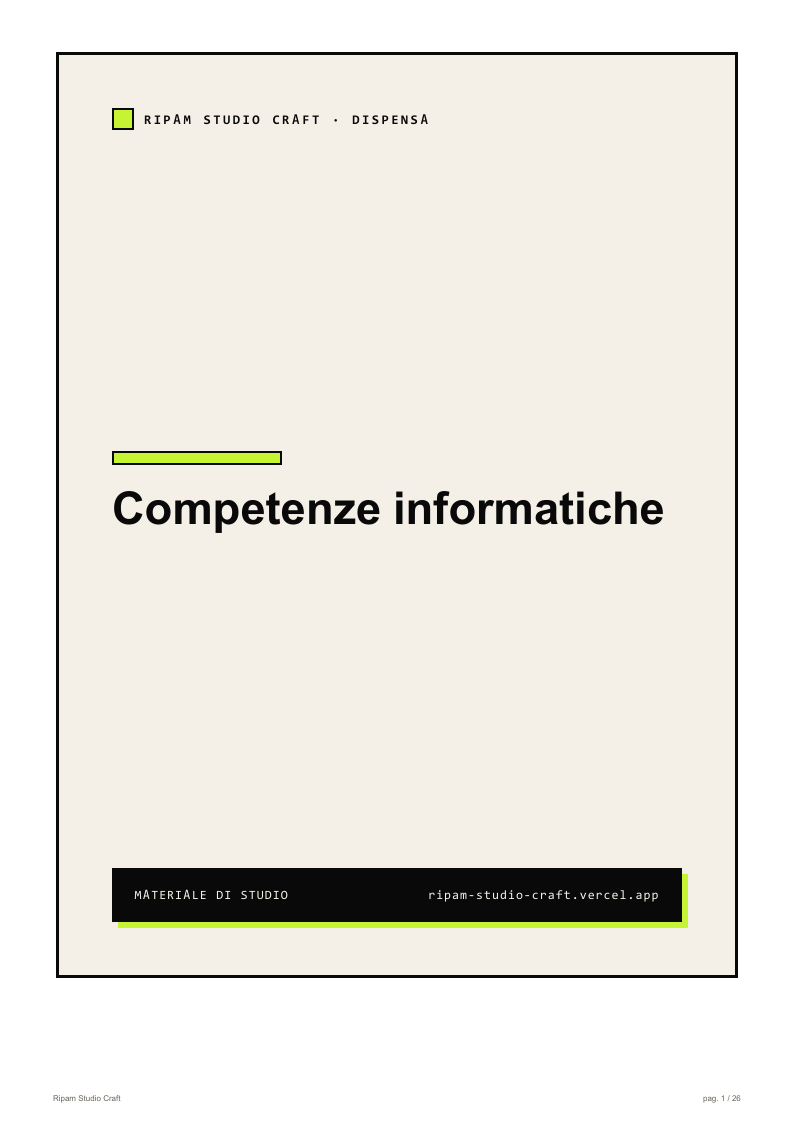
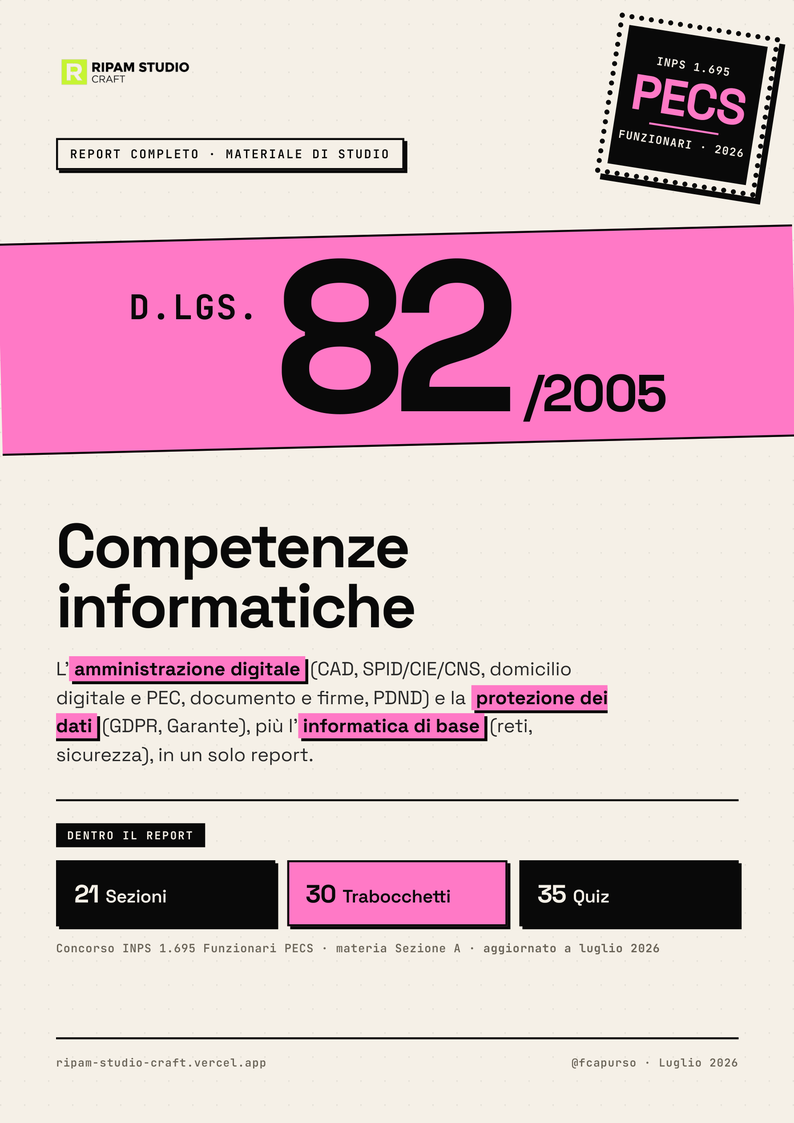
feat(report-custom): cover vere INPS + vetrina RIPAM 1340 AMM e COM
- INPS 1.695 PECS: cover reali (pagina 1 dei report) al posto dei placeholder,
  + 2 report nuovi (Cultura generale preselettiva, Sezione B - SJT) con anteprime
  Drive collegate; manifest bundle-lead INPS da 5 a 7 report.
- Vetrina /report-custom estesa a RIPAM 1.340 Funzionari: profilo AMM (10 report)
  e profilo COM (8 report), con cover vere e fileId anteprima dal manifest.

diff --git a/src/views/ReportCustom.vue b/src/views/ReportCustom.vue
@@ -85,13 +85,51 @@ const CONCORSI = [
     cod: 'INPS',
     nome: 'INPS 1.695 Funzionari PECS',
     tag: 'Progettazione, Erogazione e Controllo dei Servizi',
-    intro: 'Le 5 materie della Sezione A della prova scritta, ognuna in un report a sé.',
+    intro: 'Il report della preselettiva (Cultura generale), le 5 materie della Sezione A della prova scritta e la Sezione B (prova situazionale, SJT) — ognuna in un report a sé.',
     reports: [
+      { t: 'Cultura generale', d: 'La preselettiva (60 quesiti): Costituzione e ordinamento dello Stato, UE e organizzazioni internazionali, storia contemporanea, geografia, scienza, letteratura e arte.', fileId: '1zkYbN0hzpU1lmI-HmZYVYm30DnRzcmLW', img: 'cultura-generale' },
       { t: 'Diritto del lavoro e della previdenza', d: 'Rapporto di lavoro subordinato, sistema previdenziale, pensioni, ammortizzatori sociali, tutela INAIL.', fileId: '1u5EUA8O0Ob8OwXW1gRRq4vVlMixTaqVk', img: 'diritto-lavoro' },
       { t: 'Legislazione sociale', d: "L'assistenza e il welfare: invalidità civile, ISEE, Assegno Unico, Assegno di Inclusione.", fileId: '1aezvJ_PXauQ9jhKsNeC8WFrYE5TuoRmC', img: 'legislazione-sociale' },
       { t: 'Organizzazione e funzionamento della PA', d: 'Pubblico impiego, ordinamento INPS, trasparenza, anticorruzione e privacy.', fileId: '1fIT5frKIzMcleRdxGHDx1fPlFXSq3tnA', img: 'organizzazione-pa' },
       { t: 'Pianificazione e controllo di gestione', d: 'Budget, scostamenti, centri di responsabilità, ROI/EVA e performance nella PA.', fileId: '1WBrDY9zVELhdIO4_9F1Fm2vwkO8qnwhq', img: 'pianificazione-controllo' },
       { t: 'Competenze informatiche', d: 'Amministrazione digitale (CAD, SPID/PEC, firme, PDND), GDPR e informatica di base.', fileId: '19GtKRXMnSGihOODuxuJCSp4pGzchcEUz', img: 'competenze-informatiche' },
+      { t: 'Sezione B — Prova situazionale (SJT)', d: 'Come ragioni e ti comporti, non cosa sai: metodo, griglia decisionale e 20 scenari commentati con le trappole tipiche.', fileId: '10sumfSmjfLktX4EPcTVFN4NKSVugzHHP', img: 'sezione-b-sjt' },
+    ],
+  },
+  {
+    key: 'ripam-1340-amm',
+    cod: 'RIPAM',
+    nome: 'RIPAM 1.340 Funzionari — profilo AMM',
+    tag: 'profilo Amministrativo · Funzioni Centrali',
+    intro: 'Le 10 materie del programma del profilo Amministrativo (AMM), ognuna in un report a sé.',
+    reports: [
+      { t: 'Diritto Amministrativo', d: 'Atti e provvedimenti, principi, procedimento, accesso, invalidità e autotutela (L. 241/1990).', fileId: '1aqb1pSX-TVJca3IPND25cVAvlyn9teFj', img: 'diritto-amministrativo' },
+      { t: 'Diritto Costituzionale', d: 'Fonti del diritto, organi costituzionali, principi sulla PA (artt. 97-98 Cost.).', fileId: '1vjevz4ncIY-FdcAWKW_WVE9NBZL-qqFv', img: 'diritto-costituzionale' },
+      { t: 'Diritto Civile', d: 'Nozioni essenziali di diritto civile per la Pubblica Amministrazione.', fileId: '1JvSJyTU_0KbqyNY0tXZcPtEa40pISzQr', img: 'diritto-civile' },
+      { t: 'Diritto Penale', d: 'I reati contro la PA: peculato, concussione, corruzione, rifiuto/omissione di atti (artt. 314-360 c.p.).', fileId: '1mQ2sQvOWMPMjFv-J470jH8uLUu95Wtr4', img: 'diritto-penale' },
+      { t: 'Contratti Pubblici', d: 'Principi, soglie, procedure di affidamento e fasi del contratto (D.Lgs. 36/2023).', fileId: '1Wje2nMKfGutRv8W8WyDczfFpGQDHPMw_', img: 'contratti-pubblici' },
+      { t: 'Contabilità Pubblica', d: 'Ciclo di bilancio, art. 81 Cost., Corte dei conti e controlli (L. 196/2009).', fileId: '1J42TtZu16rl1t95X384NKoVGTcIVrd_n', img: 'contabilita-pubblica' },
+      { t: 'Pubblico Impiego', d: 'Indirizzo e gestione, reclutamento, responsabilità e disciplina (TUPI, D.Lgs. 165/2001).', fileId: '1POFnqWZHrlKPDQrCwCbAZ_1JAKSGh8Yy', img: 'pubblico-impiego' },
+      { t: 'Anticorruzione e Trasparenza', d: 'Piani, RPCT, obblighi di pubblicità e whistleblowing (L. 190/2012, D.Lgs. 33/2013, PIAO).', fileId: '17R68tZzQ53Rz8a8EN19yVuU0mBQWHy0E', img: 'anticorruzione-trasparenza' },
+      { t: 'CAD', d: 'Identità digitale, firme elettroniche, documento informatico (D.Lgs. 82/2005).', fileId: '12fbUw9G5Nd2UJ_im0ipyWBnz2N41_aL3', img: 'cad' },
+      { t: 'GDPR e Privacy', d: "Principi (art. 5), basi giuridiche, diritti dell'interessato e data breach (Reg. UE 2016/679).", fileId: '1AvQ29xq028haZxutJobIJO5Eo8WOchIv', img: 'gdpr' },
+    ],
+  },
+  {
+    key: 'ripam-1340-com',
+    cod: 'RIPAM',
+    nome: 'RIPAM 1.340 Funzionari — profilo COM',
+    tag: 'profilo Comunicazione · Funzioni Centrali',
+    intro: 'Gli 8 report del profilo Comunicazione (COM): le materie specialistiche della comunicazione pubblica più il diritto trasversale.',
+    reports: [
+      { t: 'Comunicazione Pubblica', d: 'Portavoce, ufficio stampa, URP, ciclo di programmazione e teoria della comunicazione (L. 150/2000).', fileId: '1c3IwKEWItzKizn0kqZF3xV-EFHSXXCnE', img: 'comunicazione-pubblica' },
+      { t: 'Comunicazione Digitale e Social', d: 'Strategie e strumenti della comunicazione digitale e dei social nella PA.', fileId: '1ennHs5aIiPS_1y-AJuG4Z3cWn201W3pS', img: 'comunicazione-digitale' },
+      { t: 'URP, Ufficio Stampa e Giornalismo PA', d: 'Campagne di comunicazione, comunicazione di crisi e rapporti con i media.', fileId: '1ORCmtazfOOZ5vSWurob-2sOIfwe8Inln', img: 'urp-ufficio-stampa' },
+      { t: 'Diritto Amministrativo', d: 'Atti e provvedimenti, principi, procedimento, accesso (L. 241/1990).', fileId: '1TvhTYQ0MJAAfIewJ0W6TzWnI7iAmrlNz', img: 'diritto-amministrativo' },
+      { t: 'Contratti Pubblici', d: 'Principi, soglie, procedure di affidamento e fasi del contratto (D.Lgs. 36/2023).', fileId: '1whqgm0_1aau9TAQBoonWRaNYIP8RoaFB', img: 'contratti-pubblici' },
+      { t: 'Anticorruzione e Trasparenza', d: 'Piani, RPCT, obblighi di pubblicità e whistleblowing (L. 190/2012, D.Lgs. 33/2013, PIAO).', fileId: '1h7HaZZog0QodzgXCUffUwsb5GmNECAQZ', img: 'anticorruzione-trasparenza' },
+      { t: 'GDPR e Privacy', d: "Principi (art. 5), basi giuridiche, diritti dell'interessato e data breach (Reg. UE 2016/679).", fileId: '1wjWhW9NEmNREYsZCBjxQSliyuVz7w3pc', img: 'gdpr' },
+      { t: 'CAD', d: 'Identità digitale, firme elettroniche, documento informatico (D.Lgs. 82/2005).', fileId: '1OH2xRVQbyF9j4kCmtIJ6aYUIz5UILjmI', img: 'cad' },
     ],
   },
 ]

diff --git a/api/_lib/report-custom-manifest.js b/api/_lib/report-custom-manifest.js
@@ -130,10 +130,16 @@ export const REPORT_CUSTOM_MANIFEST = {
   'inps-1695-pecs': {
     concorso: 'concorso INPS 1.695 Funzionari — profilo Consulente Protezione Sociale (PECS)',
     concorsoShort: 'concorso INPS 1.695 Funzionari · profilo PECS',
-    // Cartella Drive anteprime: ANTEPRIME/report-custom/inps-1695-pecs (5 report =
-    // le 5 materie della Sezione A della prova scritta). Stessi fileId esposti
-    // dalla vetrina /report-custom (src/views/ReportCustom.vue).
+    // Cartella Drive anteprime: ANTEPRIME/report-custom/inps-1695-pecs (7 report =
+    // la preselettiva Cultura generale + le 5 materie della Sezione A della prova
+    // scritta + la Sezione B, prova situazionale SJT). Stessi fileId esposti dalla
+    // vetrina /report-custom (src/views/ReportCustom.vue).
     reports: [
+      {
+        key: 'cultura-generale',
+        label: 'Cultura generale — la preselettiva (Costituzione e ordinamento dello Stato, UE, storia, geografia, scienza, letteratura)',
+        fileId: '1zkYbN0hzpU1lmI-HmZYVYm30DnRzcmLW',
+      },
       {
         key: 'diritto-lavoro-previdenza',
         label: 'Diritto del lavoro e della previdenza (rapporto subordinato, pensioni, ammortizzatori, INAIL)',
@@ -158,6 +164,11 @@ export const REPORT_CUSTOM_MANIFEST = {
         key: 'competenze-informatiche',
         label: 'Competenze informatiche (CAD, SPID/PEC, firme, PDND, GDPR)',
         fileId: '19GtKRXMnSGihOODuxuJCSp4pGzchcEUz',
+      },
+      {
+        key: 'sezione-b-sjt',
+        label: 'Sezione B — Prova situazionale (SJT): metodo, griglia decisionale e 20 scenari commentati',
+        fileId: '10sumfSmjfLktX4EPcTVFN4NKSVugzHHP',
       },
     ],
   },
